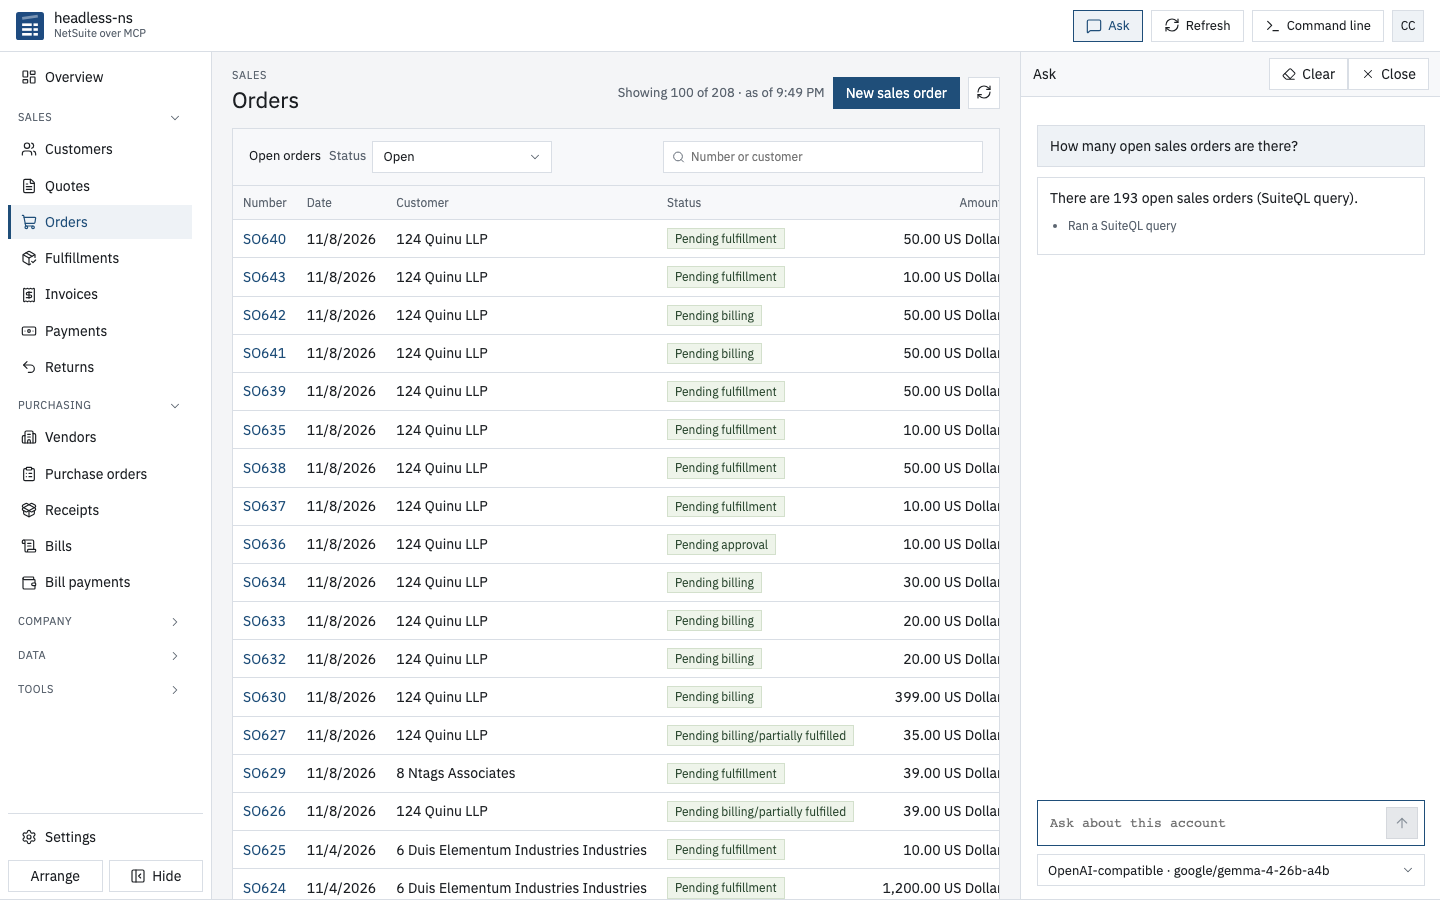
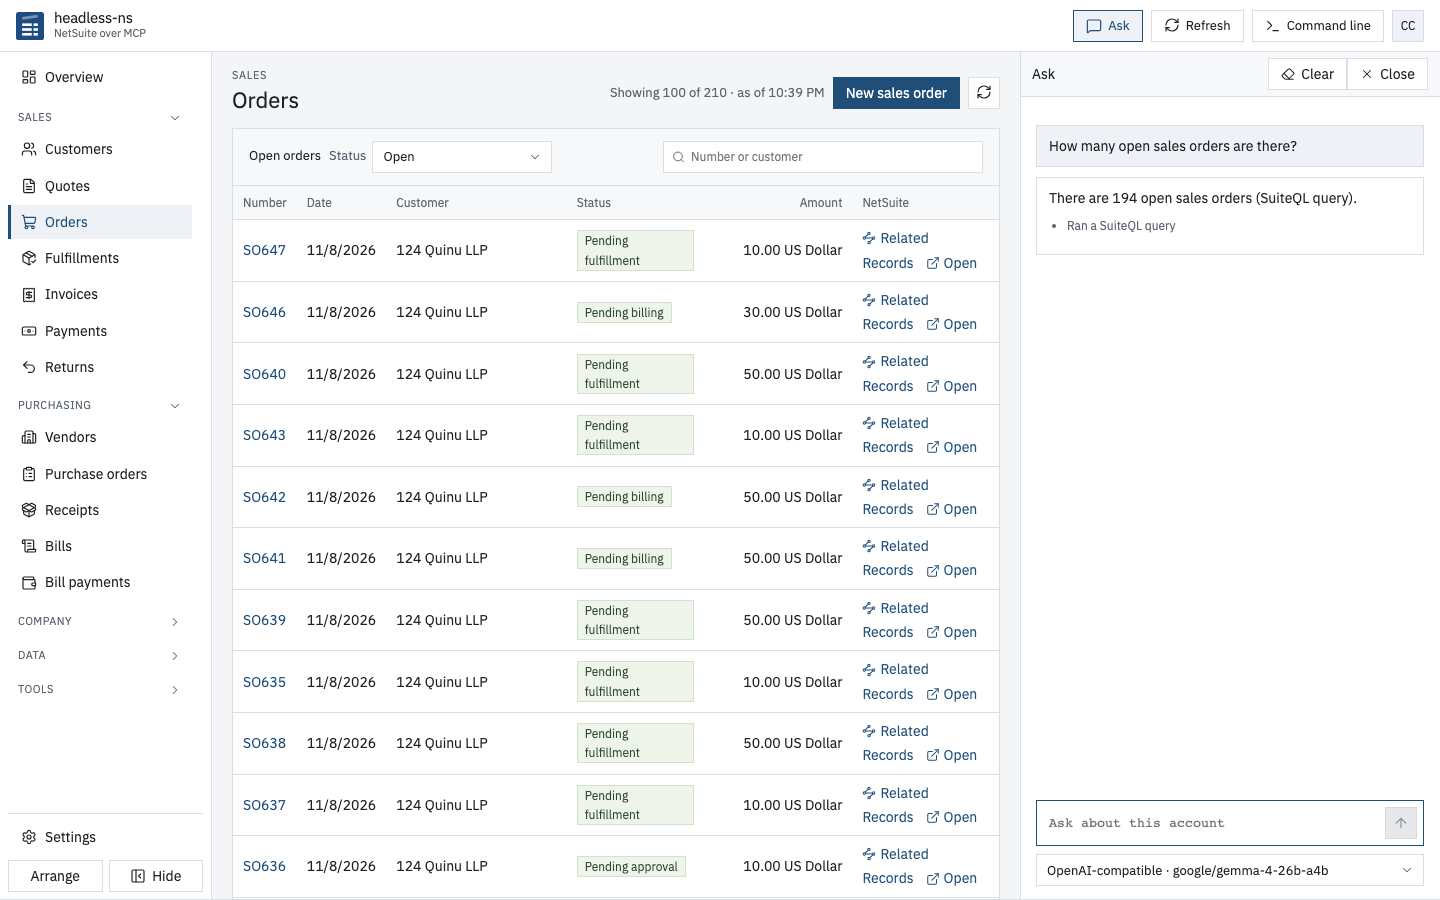
Check in the live tour that Orders, Customers and Bills fit beside the Ask drawer, and refresh the README screenshot.

diff --git a/e2e/polish.live.ts b/e2e/polish.live.ts
@@ -22,6 +22,15 @@ test("tour the polished screens", async ({ page, context }) => {
   await expect(drawer.getByText("Looking that up.")).toBeHidden({ timeout: 300_000 });
   await expect(drawer.locator(".bubble:not(.user)").last()).toContainText(/\d/);
   await page.screenshot({ path: "docs/orders-and-ask.png" });
+  // With Ask open, each list fits its column instead of scrolling sideways.
+  for (const view of ["orders", "customers", "bills"]) {
+    await page.goto(`/#/${view}`);
+    const wrap = page.locator("main .table-wrap");
+    await expect(wrap.getByRole("row").nth(1)).toBeVisible({ timeout: 60_000 });
+    const { scroll, client } = await wrap.evaluate((el) => ({ scroll: el.scrollWidth, client: el.clientWidth }));
+    expect(scroll, `${view} scrolls sideways by ${scroll - client}px`).toBeLessThanOrEqual(client + 1);
+    await page.screenshot({ path: `e2e/shots/6b-live-fit-${view}.png` });
+  }
   await drawer.getByRole("button", { name: "Close" }).click();
 
   await page.goto("/#/records");
